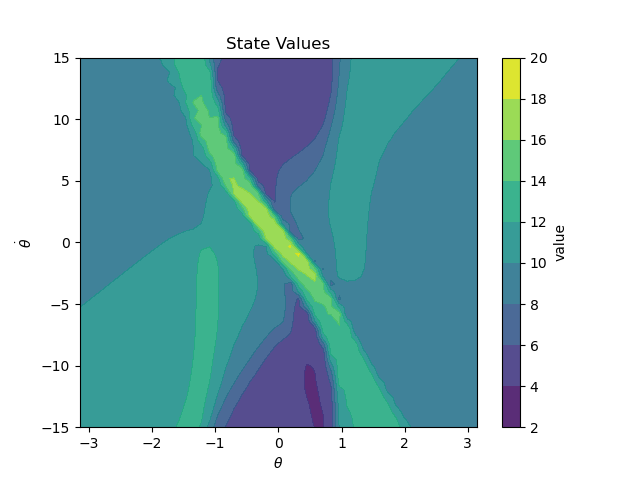
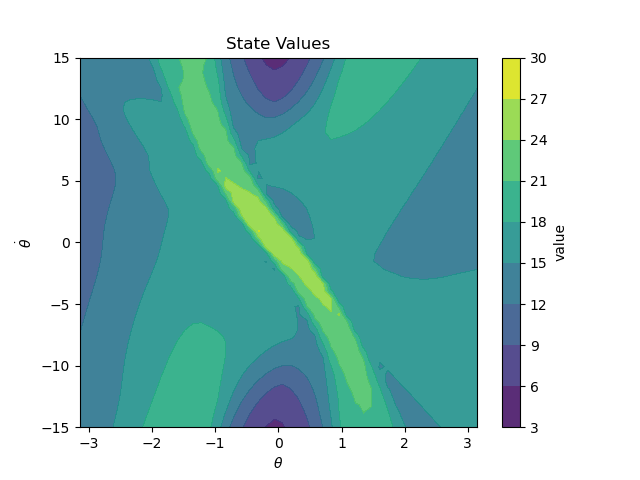
cartpole can be balanced

diff --git a/train_pendulum_main.py b/train_pendulum_main.py
@@ -11,9 +11,9 @@ import seaborn as sns
 
 def main():
     GAMMA = 0.95
-    eps_init = 1.0
+    eps_init = 0.9
     eps_end = 0.1
-    num_episodes = 150
+    num_episodes = 500
 
     env = discreteaction_pendulum.Pendulum()
     batch_size = 64
@@ -25,8 +25,8 @@ def main():
     target_net.load_state_dict(policy_net.state_dict()) #synchronize weights for initialization
 
     # optimizer = optim.AdamW(policy_net.parameters(), lr = 1e-4, amsgrad=True)
-    optimizer = optim.RMSprop(policy_net.parameters(), lr=0.01)
-    memory = ReplayMemory(int(1e5))
+    optimizer = optim.RMSprop(policy_net.parameters(), lr=0.00025)
+    memory = ReplayMemory(int(5000))
 
     update_freq = 1000
 
@@ -106,7 +106,7 @@ def main():
     target_net.load_state_dict(policy_net.state_dict()) #synchronize weights for initialization
     # optimizer = optim.AdamW(policy_net.parameters(), lr = 1e-4, amsgrad=True)
     optimizer = optim.RMSprop(policy_net.parameters(), lr=1e-4)
-    memory = ReplayMemory(int(1e6))
+    memory = ReplayMemory(int(5000))
     update_freq = 1
     _, reward_Full_NoTarget ,_, _, _ = train_network(n_actions, num_episodes, policy_net, target_net, \
                                             optimizer, memory, env,  batch_size, eps_init, eps_end, GAMMA, \

diff --git a/train_pendulum_DQN.py b/train_pendulum_DQN.py
@@ -47,13 +47,13 @@ class ReplayMemory(object):
         return len(self.memory)
 
 def decay_eps(k ,eps_init, eps_end, num_episodes):
-    max_steps_done = 100
+    # max_steps_done = 100
 
-    interpolated_eps = (eps_end - eps_init)*k/(num_episodes*max_steps_done) + eps_init
+    # interpolated_eps = (eps_end - eps_init)*k/(num_episodes*max_steps_done) + eps_init
     # interpolated_eps = max(eps_end, eps_init*0.98)
 
     #Expoential decay:
-    # interpolated_eps = eps_end + (eps_init - eps_end) * np.exp(-1. * k / 1000)
+    interpolated_eps = eps_end + (eps_init - eps_end) * np.exp(-1. * k / 1000)
 
     return interpolated_eps
 
@@ -111,7 +111,7 @@ def update_weights(memory ,optimizer, policy_net, target_net, batch_size, GAMMA)
     optimizer.zero_grad()
     loss.backward()
     # In-place gradient clipping
-    torch.nn.utils.clip_grad_value_(policy_net.parameters(), 100)
+    # torch.nn.utils.clip_grad_value_(policy_net.parameters(), 100)
     optimizer.step()
 
     return max(expected_state_action_values)
